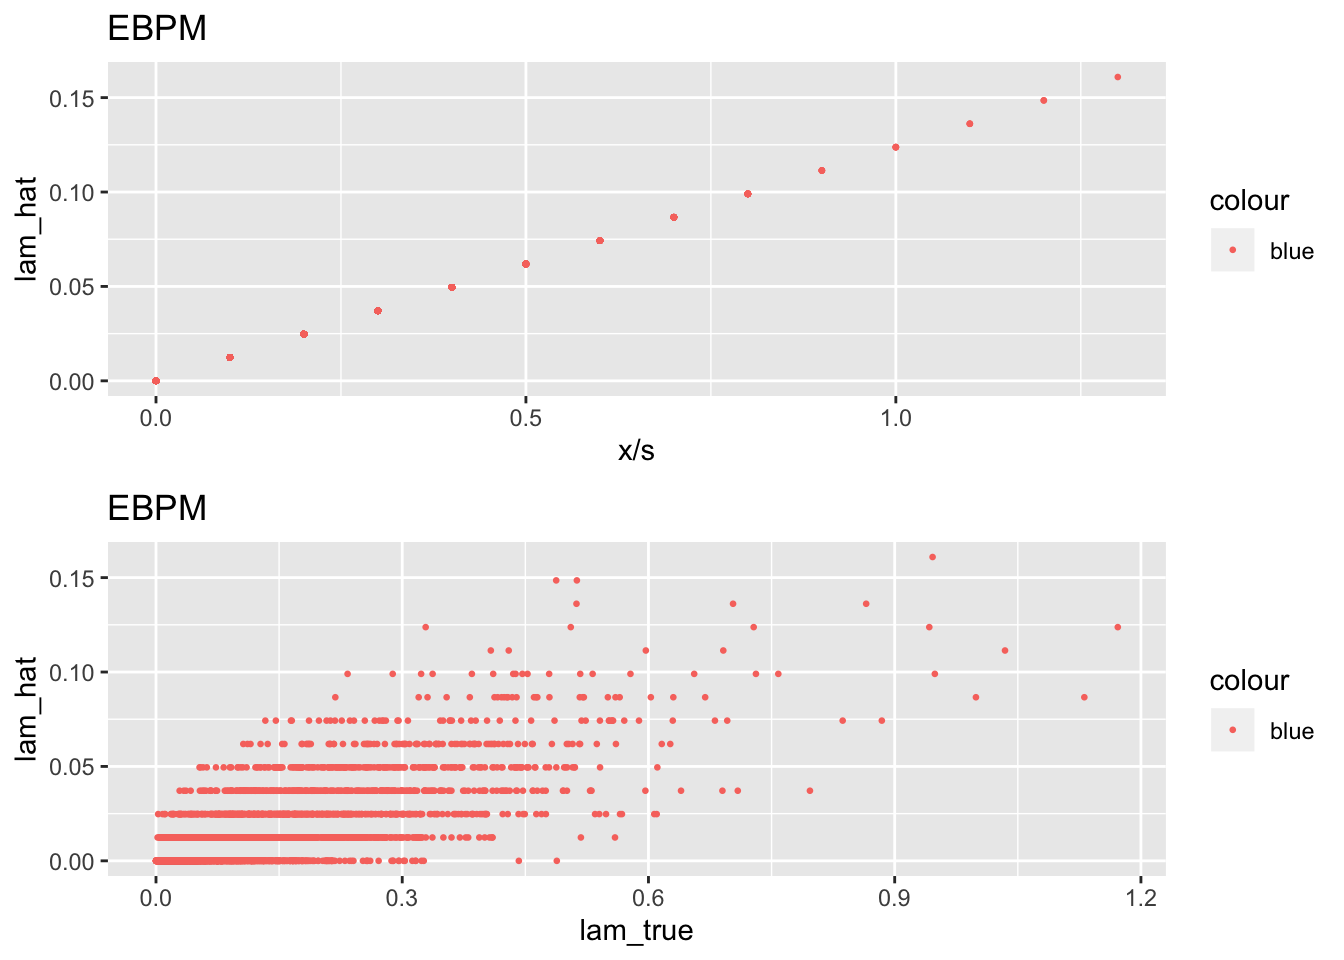
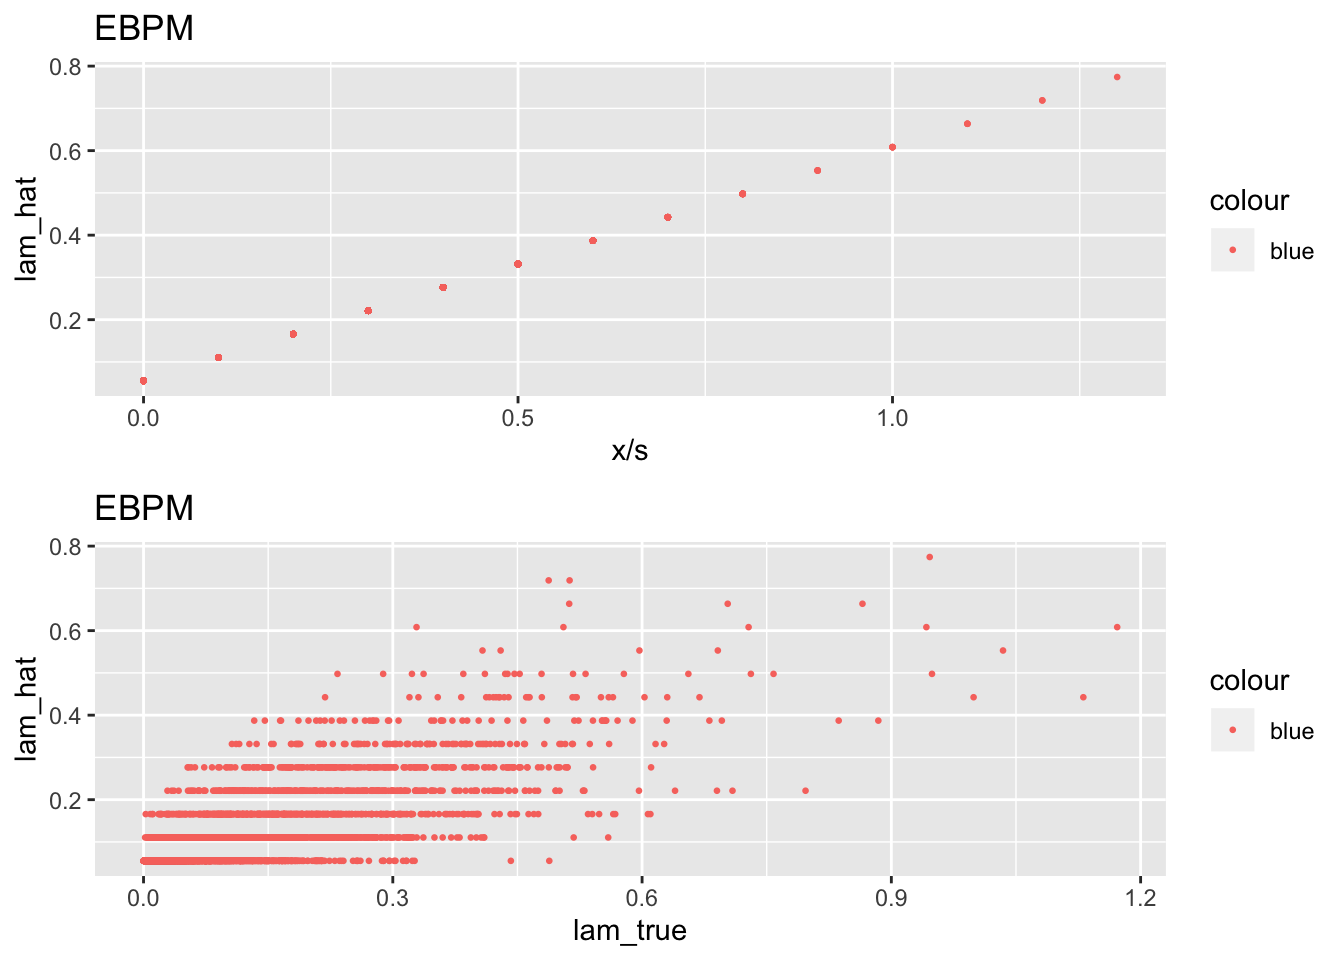
Build site.

diff --git a/docs/ebpm_demo.html b/docs/ebpm_demo.html
@@ -536,10 +536,10 @@ This reproducible <a href="http://rmarkdown.rstudio.com">R Markdown</a> analysis
 <div class="panel panel-default">
 <div class="panel-heading">
 <p class="panel-title">
-<a data-toggle="collapse" data-parent="#workflowr-checks" href="#strongRepositoryversionstrongahrefhttpsgithubcomzihao12ebpmftree32d185317bfebd6e2c9a4b05d85d38501793a8d9targetblank32d1853a"> <span class="glyphicon glyphicon-ok text-success" aria-hidden="true"></span> <strong>Repository version:</strong> <a href="https://github.com/zihao12/ebpmf/tree/32d185317bfebd6e2c9a4b05d85d38501793a8d9" target="_blank">32d1853</a> </a>
+<a data-toggle="collapse" data-parent="#workflowr-checks" href="#strongRepositoryversionstrongahrefhttpsgithubcomzihao12ebpmftree522f45b1e57a12e8cb940ff22a9a44d85e207e43targetblank522f45ba"> <span class="glyphicon glyphicon-ok text-success" aria-hidden="true"></span> <strong>Repository version:</strong> <a href="https://github.com/zihao12/ebpmf/tree/522f45b1e57a12e8cb940ff22a9a44d85e207e43" target="_blank">522f45b</a> </a>
 </p>
 </div>
[2 lines of base64/hex data omitted]
 <div class="panel-body">
 <p>
 Great! You are using Git for version control. Tracking code development and connecting the code version to the results is critical for reproducibility. The version displayed above was the version of the Git repository at the time these results were generated. <br><br> Note that you need to be careful to ensure that all relevant files for the analysis have been committed to Git prior to generating the results (you can use <code>wflow_publish</code> or <code>wflow_git_commit</code>). workflowr only checks the R Markdown file, but you know if there are other scripts or data files that it depends on. Below is the status of the Git repository when the results were generated:
@@ -551,6 +551,7 @@ Ignored files:
 
 Untracked files:
     Untracked:  analysis/ebpmf_demo.Rmd
+    Untracked:  docs/figure/test.Rmd/
 
 </code></pre>
 <p>
@@ -589,6 +590,40 @@ Message
 </tr>
 </thead>
 <tbody>
+<tr>
+<td>
+Rmd
+</td>
+<td>
+<a href="https://github.com/zihao12/ebpmf/blob/522f45b1e57a12e8cb940ff22a9a44d85e207e43/analysis/ebpm_demo.Rmd" target="_blank">522f45b</a>
+</td>
+<td>
+zihao12
+</td>
+<td>
+2019-09-26
+</td>
+<td>
+fix a stupid bug in ebpm_demo.Rmd
+</td>
+</tr>
+<tr>
+<td>
+html
+</td>
+<td>
+<a href="https://rawcdn.githack.com/zihao12/ebpmf/6ae1cb48b70da9f8a692294e8d407a65c99045e1/docs/ebpm_demo.html" target="_blank">6ae1cb4</a>
+</td>
+<td>
+zihao12
+</td>
+<td>
+2019-09-26
+</td>
+<td>
+Build site.
+</td>
+</tr>
 <tr>
 <td>
 Rmd
@@ -920,11 +955,14 @@ select_grid_exponential &lt;- function(x, s, m = 2){
 }
 
 ## compute L matrix from data and selected grid
-## L_ik = (s_i^x_i* b_k)/(s_i + b_k)^(x_i + 1)
+## L_ik = NB(x_i; a_k, b_k/b_k + s_i)
+## but for computation in mixsqr, we can simplyfy it for numerical stability
 compute_L &lt;- function(x, s, a, b){
   prob = 1 - s/outer(s,b, &quot;+&quot;)
-  L = dnbinom(x,a,prob = prob, log = F) 
-  return(L)
+  l = dnbinom(x,a,prob = prob, log = T) 
+  l_rowmax  = apply(l,1,max)
+  L = exp(l -  l_rowmax)
+  return(list(L = L, l_rowmax = l_rowmax))
 }
 
 ## compute ebpm_exponential_mixture problem
@@ -933,11 +971,13 @@ ebpm_exponential_mixture &lt;- function(x,s,m = 2, grid = NULL, seed = 123){
   if(is.null(grid)){grid &lt;- select_grid_exponential(x,s,m)}
   b = grid$b
   a = grid$a
-  L &lt;-  compute_L(x,s,a, b)
-  fit &lt;- mixsqp(L, control = list(verbose = F))
-  ll_pi = - (fit$value) * length(x) ## get ll(pi) from mixsqr obj
+  tmp &lt;-  compute_L(x,s,a, b)
+  L =  tmp$L
+  l_rowmax = tmp$l_rowmax
+  fit &lt;- mixsqp(L, control = list(verbose = T))
+  ll_pi = sum(log(exp(l_rowmax) * L %*%  fit$x))
   pi = fit$x
-  cpm = outer(x,a)/outer(s, b)
+  cpm = outer(x,a,  &quot;+&quot;)/outer(s, b, &quot;+&quot;)
   lam_pm = cpm %*% pi
   ll_lam = sum(dpois(x, s*lam_pm, log = T))
   return(list(pi = pi, lam_pm = lam_pm, ll_lam = ll_lam,ll_pi = ll_pi,L = L,grid = grid))
@@ -967,9 +1007,15 @@ simulate_pm  &lt;-  function(seed = 123){
   #s = 2*runif(length(lam_true))
   x  = rpois(length(lam_true),s*lam_true)
   ll_lam = sum(dpois(x, s*lam_true, log = T))
-  L =  compute_L(x,s,a,b)
-  ll_pi = sum(log(L %*% matrix(pi, ncol = 1)))
+  tmp =  compute_L(x,s,a,b)
+  L =  tmp$L
+  l_rowmax = tmp$l_rowmax
+  ll_pi = sum(log(exp(l_rowmax) * L %*% matrix(pi, ncol = 1)))
   return(list(x =  x, s = s, lam_true = lam_true, pi = pi, grid = grid, ll_lam = ll_lam, ll_pi = ll_pi))
+}
+
+rmse &lt;- function(x,y){
+  return(sqrt(mean(x-y)^2))
 }</code></pre>
 <pre class="r"><code>## test functions  above
 main &lt;- function(know_grid = F){
@@ -995,10 +1041,9 @@ main &lt;- function(know_grid = F){
   print(sprintf(&quot;oracle ll_pi: %f&quot;, sim$ll_pi))
   print(sprintf(&quot;fitted ll_pi: %f&quot;, fit$ll_pi))
   print(&quot;\n&quot;)
-  print(&quot;log likelihood for lam:&quot;)
-  print(sprintf(&quot;mle    ll_lam: %f&quot;, sum(dpois(x, x, log = T))))
-  print(sprintf(&quot;oracle ll_lam: %f&quot;, sim$ll_lam))
-  print(sprintf(&quot;fitted ll_lam: %f&quot;, fit$ll_lam))
+  print(&quot;RMSE with lam_oracle:&quot;)
+  print(sprintf(&quot;mle    : %f&quot;, rmse(x/s, sim$lam_true)))
+  print(sprintf(&quot;fitted : %f&quot;, rmse(fit$lam_pm, sim$lam_true)))
   
   df = data.frame(n = 1:length(x), x = x, s =  s, lam_true = lam_true, lam_hat = fit$lam_pm)
   
@@ -1015,17 +1060,40 @@ main &lt;- function(know_grid = F){
 <div id="fit-knowing-grid" class="section level2">
 <h2>fit (knowing grid)</h2>
 <pre class="r"><code>out1 = main(know_grid = T)</code></pre>
-<pre><code>[1] &quot;fit with 4000 data points and 50 grid points&quot;
-[1] &quot;runtime: 0.129000&quot;
+<pre><code>Running mix-SQP algorithm 0.1-120 on 4000 x 50 matrix
+convergence tol. (SQP):     1.0e-08
+conv. tol. (active-set):    1.0e-10
+zero threshold (solution):  1.0e-08
+zero thresh. (search dir.): 1.0e-15
+l.s. sufficient decrease:   1.0e-02
+step size reduction factor: 7.5e-01
+minimum step size:          1.0e-08
+max. iter (SQP):            1000
+max. iter (active-set):     51
+number of EM iterations:    4
+iter        objective max(rdual) nnz stepsize max.diff nqp nls
+   1 +2.812590003e-01  -- EM --   50 1.00e+00 1.67e-02  --  --
+   2 +2.533469855e-01  -- EM --   50 1.00e+00 5.11e-03  --  --
+   3 +2.385549735e-01  -- EM --   50 1.00e+00 3.05e-03  --  --
+   4 +2.293655351e-01  -- EM --   50 1.00e+00 2.50e-03  --  --
+   1 +2.293655351e-01 +6.422e-02  50  ------   ------   --  --
+   2 +2.172995460e-01 +2.068e-02  50 9.90e-01 9.43e-01  51   1
+   3 +2.003965831e-01 +3.260e-03  49 9.90e-01 2.62e-02  51   1
+   4 +2.000887113e-01 +3.433e-04  38 9.90e-01 1.15e-01  51   1
+   5 +1.997620735e-01 +7.227e-06   4 9.90e-01 8.76e-01  44   1
+   6 +1.997550286e-01 +7.278e-08   4 9.90e-01 8.76e-03   4   1
+   7 +1.997549576e-01 +7.279e-10   4 9.90e-01 8.76e-05   4   1
+Convergence criteria met---optimal solution found.
+[1] &quot;fit with 4000 data points and 50 grid points&quot;
+[1] &quot;runtime: 0.150000&quot;
 [1] &quot;\n&quot;
 [1] &quot;log likelihood for pi:&quot;
 [1] &quot;oracle ll_pi: -6154.499159&quot;
 [1] &quot;fitted ll_pi: -6153.161922&quot;
 [1] &quot;\n&quot;
-[1] &quot;log likelihood for lam:&quot;
-[1] &quot;mle    ll_lam: -2807.351047&quot;
-[1] &quot;oracle ll_lam: -4785.537170&quot;
-[1] &quot;fitted ll_lam: -8811.940157&quot;</code></pre>
+[1] &quot;RMSE with lam_oracle:&quot;
+[1] &quot;mle    : 0.003011&quot;
+[1] &quot;fitted : 0.003027&quot;</code></pre>
 <p><img src="figure/ebpm_demo.Rmd/unnamed-chunk-4-1.png" width="672" style="display: block; margin: auto;" /></p>
 <p>
 <button type="button" class="btn btn-default btn-xs btn-workflowr btn-workflowr-fig" data-toggle="collapse" data-target="#fig-unnamed-chunk-4-1">
@@ -1201,17 +1269,40 @@ zihao12
 <div id="fit-not-knowing-grid" class="section level2">
 <h2>fit (not knowing grid)</h2>
 <pre class="r"><code>out2 = main(know_grid = F)</code></pre>
-<pre><code>[1] &quot;fit with 4000 data points and 67 grid points&quot;
-[1] &quot;runtime: 0.177000&quot;
+<pre><code>Running mix-SQP algorithm 0.1-120 on 4000 x 67 matrix
+convergence tol. (SQP):     1.0e-08
+conv. tol. (active-set):    1.0e-10
+zero threshold (solution):  1.0e-08
+zero thresh. (search dir.): 1.0e-15
+l.s. sufficient decrease:   1.0e-02
+step size reduction factor: 7.5e-01
+minimum step size:          1.0e-08
+max. iter (SQP):            1000
+max. iter (active-set):     68
+number of EM iterations:    4
+iter        objective max(rdual) nnz stepsize max.diff nqp nls
+   1 +6.197650915e-01  -- EM --   67 1.00e+00 1.02e-02  --  --
+   2 +5.834642849e-01  -- EM --   67 1.00e+00 4.13e-03  --  --
+   3 +5.616717046e-01  -- EM --   67 1.00e+00 3.80e-03  --  --
+   4 +5.474023293e-01  -- EM --   67 1.00e+00 3.48e-03  --  --
+   1 +5.474023293e-01 +1.030e-01  67  ------   ------   --  --
+   2 +5.480618226e-01 +1.390e-01  67 9.90e-01 8.51e-01  68   1
+   3 +4.989059046e-01 +1.745e-02  67 9.90e-01 4.06e-01  68   1
+   4 +4.900072839e-01 +8.985e-04  47 9.90e-01 8.04e-01  68   1
+   5 +4.891817310e-01 +1.238e-05   6 9.90e-01 3.02e-01  55   1
+   6 +4.891699740e-01 +1.245e-07   5 9.90e-01 2.87e-03   5   1
+   7 +4.891698557e-01 +1.245e-09   4 9.90e-01 2.87e-05   4   1
+Convergence criteria met---optimal solution found.
+[1] &quot;fit with 4000 data points and 67 grid points&quot;
+[1] &quot;runtime: 0.198000&quot;
 [1] &quot;\n&quot;
 [1] &quot;log likelihood for pi:&quot;
 [1] &quot;oracle ll_pi: -6154.499159&quot;
 [1] &quot;fitted ll_pi: -6153.168083&quot;
 [1] &quot;\n&quot;
-[1] &quot;log likelihood for lam:&quot;
-[1] &quot;mle    ll_lam: -2807.351047&quot;
-[1] &quot;oracle ll_lam: -4785.537170&quot;
-[1] &quot;fitted ll_lam: -8811.600827&quot;</code></pre>
+[1] &quot;RMSE with lam_oracle:&quot;
+[1] &quot;mle    : 0.003011&quot;
+[1] &quot;fitted : 0.003192&quot;</code></pre>
 <p><img src="figure/ebpm_demo.Rmd/unnamed-chunk-5-1.png" width="672" style="display: block; margin: auto;" /></p>
 <p>
 <button type="button" class="btn btn-default btn-xs btn-workflowr btn-workflowr-fig" data-toggle="collapse" data-target="#fig-unnamed-chunk-5-1">
@@ -1476,8 +1567,6 @@ zihao12
 <ul>
 <li>Our grid selecting seems to work fine, as the posterior mean of <span class="math inline">\(\lambda\)</span>s are almost the same between the two experiments (use oracle grid VS estimate grid)</li>
 <li><span class="math inline">\(\ell(\pi_{est})\)</span> is slightly better than <span class="math inline">\(\ell(\pi_{true})\)</span></li>
-<li>It is suspicious that <span class="math inline">\(\ell(\lambda_{post})\)</span> is so much worse than oracle</li>
-<li></li>
 </ul>
 <br>
 <p>
